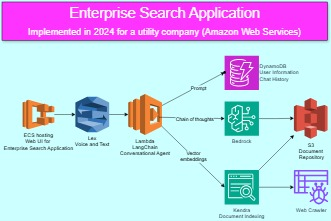
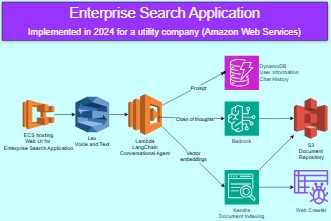
modified enterprise search project image

Changed region(s): [[0.0, 0.0, 0.997, 0.19]]

diff --git a/html/EnterpriseSearch.drawio.html b/html/EnterpriseSearch.drawio.html
@@ -5,7 +5,7 @@
 <title>EnterpriseSearch</title>
 <meta charset="utf-8"/>
 </head>
-<body><div class="mxgraph" style="max-width:100%;border:1px solid transparent;" data-mxgraph="{&quot;highlight&quot;:&quot;#0000ff&quot;,&quot;nav&quot;:true,&quot;resize&quot;:true,&quot;dark-mode&quot;:&quot;auto&quot;,&quot;toolbar&quot;:&quot;zoom layers tags lightbox&quot;,&quot;edit&quot;:&quot;_blank&quot;,&quot;xml&quot;:&quot;&lt;mxfile host=\&quot;app.diagrams.net\&quot; agent=\&quot;Mozilla/5.0 (Windows NT 10.0; Win64; x64) AppleWebKit/537.36 (KHTML, like Gecko) Chrome/134.0.0.0 Safari/537.36\&quot; version=\&quot;26.2.7\&quot;&gt;\n  &lt;diagram name=\&quot;Page-1\&quot; id=\&quot;_hdUKqcjvJ5aoQoFAANQ\&quot;&gt;\n    &lt;mxGraphModel dx=\&quot;1044\&quot; dy=\&quot;570\&quot; grid=\&quot;0\&quot; gridSize=\&quot;10\&quot; guides=\&quot;1\&quot; tooltips=\&quot;1\&quot; connect=\&quot;1\&quot; arrows=\&quot;1\&quot; fold=\&quot;1\&quot; page=\&quot;1\&quot; pageScale=\&quot;1\&quot; pageWidth=\&quot;850\&quot; pageHeight=\&quot;1100\&quot; background=\&quot;#CCFFFF\&quot; math=\&quot;0\&quot; shadow=\&quot;0\&quot;&gt;\n      &lt;root&gt;\n        &lt;mxCell id=\&quot;0\&quot; /&gt;\n        &lt;mxCell id=\&quot;1\&quot; parent=\&quot;0\&quot; /&gt;\n        &lt;mxCell id=\&quot;H_BaTxuCzZBpjUt7WrBj-1\&quot; value=\&quot;&amp;lt;div&amp;gt;&amp;lt;span style=&amp;quot;color: light-dark(rgb(255, 255, 255), rgb(18, 18, 18));&amp;quot;&amp;gt;Enterprise Search Application&amp;lt;/span&amp;gt;&amp;lt;/div&amp;gt;&amp;lt;div&amp;gt;&amp;lt;span style=&amp;quot;font-size: 21px; color: light-dark(rgb(255, 255, 255), rgb(18, 18, 18));&amp;quot;&amp;gt;Implemented in 2024 for a utility company (Amazon Web Services)&amp;lt;/span&amp;gt;&amp;lt;/div&amp;gt;\&quot; style=\&quot;rounded=0;whiteSpace=wrap;html=1;strokeWidth=1;fontSize=33;labelBackgroundColor=#FF33FF;fillColor=#FF33FF;fontColor=#FFFFFF;textShadow=0;shadow=1;labelBorderColor=none;\&quot; vertex=\&quot;1\&quot; parent=\&quot;1\&quot;&gt;\n          &lt;mxGeometry x=\&quot;54\&quot; y=\&quot;19\&quot; width=\&quot;740\&quot; height=\&quot;87\&quot; as=\&quot;geometry\&quot; /&gt;\n        &lt;/mxCell&gt;\n        &lt;mxCell id=\&quot;H_BaTxuCzZBpjUt7WrBj-9\&quot; value=\&quot;\&quot; style=\&quot;edgeStyle=orthogonalEdgeStyle;rounded=0;orthogonalLoop=1;jettySize=auto;html=1;\&quot; edge=\&quot;1\&quot; parent=\&quot;1\&quot; source=\&quot;H_BaTxuCzZBpjUt7WrBj-2\&quot; target=\&quot;H_BaTxuCzZBpjUt7WrBj-3\&quot;&gt;\n          &lt;mxGeometry relative=\&quot;1\&quot; as=\&quot;geometry\&quot; /&gt;\n        &lt;/mxCell&gt;\n        &lt;mxCell id=\&quot;H_BaTxuCzZBpjUt7WrBj-2\&quot; value=\&quot;ECS hosting&amp;lt;div&amp;gt;&amp;lt;span style=&amp;quot;background-color: transparent; color: light-dark(rgb(0, 0, 0), rgb(255, 255, 255));&amp;quot;&amp;gt;Web UI for&amp;amp;nbsp;&amp;lt;/span&amp;gt;&amp;lt;/div&amp;gt;&amp;lt;div&amp;gt;&amp;lt;span style=&amp;quot;background-color: transparent; color: light-dark(rgb(0, 0, 0), rgb(255, 255, 255));&amp;quot;&amp;gt;Enterprise Search Application&amp;lt;/span&amp;gt;&amp;lt;/div&amp;gt;\&quot; style=\&quot;outlineConnect=0;dashed=0;verticalLabelPosition=bottom;verticalAlign=top;align=center;html=1;shape=mxgraph.aws3.ecs;fillColor=#F58534;gradientColor=none;\&quot; vertex=\&quot;1\&quot; parent=\&quot;1\&quot;&gt;\n          &lt;mxGeometry x=\&quot;101\&quot; y=\&quot;241\&quot; width=\&quot;72\&quot; height=\&quot;67.5\&quot; as=\&quot;geometry\&quot; /&gt;\n        &lt;/mxCell&gt;\n        &lt;mxCell id=\&quot;H_BaTxuCzZBpjUt7WrBj-10\&quot; value=\&quot;\&quot; style=\&quot;edgeStyle=orthogonalEdgeStyle;rounded=0;orthogonalLoop=1;jettySize=auto;html=1;\&quot; edge=\&quot;1\&quot; parent=\&quot;1\&quot; source=\&quot;H_BaTxuCzZBpjUt7WrBj-3\&quot; target=\&quot;H_BaTxuCzZBpjUt7WrBj-4\&quot;&gt;\n          &lt;mxGeometry relative=\&quot;1\&quot; as=\&quot;geometry\&quot; /&gt;\n        &lt;/mxCell&gt;\n        &lt;mxCell id=\&quot;H_BaTxuCzZBpjUt7WrBj-3\&quot; value=\&quot;Lex&amp;lt;div&amp;gt;Voice and Text&amp;lt;/div&amp;gt;\&quot; style=\&quot;outlineConnect=0;dashed=0;verticalLabelPosition=bottom;verticalAlign=top;align=center;html=1;shape=mxgraph.aws3.lex;fillColor=#2E73B8;gradientColor=none;\&quot; vertex=\&quot;1\&quot; parent=\&quot;1\&quot;&gt;\n          &lt;mxGeometry x=\&quot;221\&quot; y=\&quot;234.25\&quot; width=\&quot;76.5\&quot; height=\&quot;81\&quot; as=\&quot;geometry\&quot; /&gt;\n        &lt;/mxCell&gt;\n        &lt;mxCell id=\&quot;H_BaTxuCzZBpjUt7WrBj-12\&quot; value=\&quot;\&quot; style=\&quot;rounded=0;orthogonalLoop=1;jettySize=auto;html=1;entryX=0.52;entryY=-0.32;entryDx=0;entryDy=0;entryPerimeter=0;\&quot; edge=\&quot;1\&quot; parent=\&quot;1\&quot; source=\&quot;H_BaTxuCzZBpjUt7WrBj-4\&quot; target=\&quot;H_BaTxuCzZBpjUt7WrBj-11\&quot;&gt;\n          &lt;mxGeometry relative=\&quot;1\&quot; as=\&quot;geometry\&quot; /&gt;\n        &lt;/mxCell&gt;\n        &lt;mxCell id=\&quot;H_BaTxuCzZBpjUt7WrBj-21\&quot; value=\&quot;Prompt\&quot; style=\&quot;edgeLabel;html=1;align=center;verticalAlign=middle;resizable=0;points=[];labelBackgroundColor=#CCFFFF;\&quot; vertex=\&quot;1\&quot; connectable=\&quot;0\&quot; parent=\&quot;H_BaTxuCzZBpjUt7WrBj-12\&quot;&gt;\n          &lt;mxGeometry x=\&quot;0.1459\&quot; y=\&quot;-3\&quot; relative=\&quot;1\&quot; as=\&quot;geometry\&quot;&gt;\n            &lt;mxPoint as=\&quot;offset\&quot; /&gt;\n          &lt;/mxGeometry&gt;\n        &lt;/mxCell&gt;\n        &lt;mxCell id=\&quot;H_BaTxuCzZBpjUt7WrBj-4\&quot; value=\&quot;Lambda&amp;lt;div&amp;gt;LangChain&amp;lt;/div&amp;gt;&amp;lt;div&amp;gt;Conversational Agent&amp;lt;/div&amp;gt;\&quot; style=\&quot;outlineConnect=0;dashed=0;verticalLabelPosition=bottom;verticalAlign=top;align=center;html=1;shape=mxgraph.aws3.lambda;fillColor=#F58534;gradientColor=none;\&quot; vertex=\&quot;1\&quot; parent=\&quot;1\&quot;&gt;\n          &lt;mxGeometry x=\&quot;341\&quot; y=\&quot;228.25\&quot; width=\&quot;76.5\&quot; height=\&quot;93\&quot; as=\&quot;geometry\&quot; /&gt;\n        &lt;/mxCell&gt;\n        &lt;mxCell id=\&quot;H_BaTxuCzZBpjUt7WrBj-16\&quot; value=\&quot;\&quot; style=\&quot;edgeStyle=orthogonalEdgeStyle;rounded=0;orthogonalLoop=1;jettySize=auto;html=1;\&quot; edge=\&quot;1\&quot; parent=\&quot;1\&quot; source=\&quot;H_BaTxuCzZBpjUt7WrBj-5\&quot; target=\&quot;H_BaTxuCzZBpjUt7WrBj-8\&quot;&gt;\n          &lt;mxGeometry relative=\&quot;1\&quot; as=\&quot;geometry\&quot; /&gt;\n        &lt;/mxCell&gt;\n        &lt;mxCell id=\&quot;H_BaTxuCzZBpjUt7WrBj-5\&quot; value=\&quot;Bedrock\&quot; style=\&quot;sketch=0;points=[[0,0,0],[0.25,0,0],[0.5,0,0],[0.75,0,0],[1,0,0],[0,1,0],[0.25,1,0],[0.5,1,0],[0.75,1,0],[1,1,0],[0,0.25,0],[0,0.5,0],[0,0.75,0],[1,0.25,0],[1,0.5,0],[1,0.75,0]];outlineConnect=0;fontColor=#232F3E;fillColor=#01A88D;strokeColor=#ffffff;dashed=0;verticalLabelPosition=bottom;verticalAlign=top;align=center;html=1;fontSize=12;fontStyle=0;aspect=fixed;shape=mxgraph.aws4.resourceIcon;resIcon=mxgraph.aws4.bedrock;\&quot; vertex=\&quot;1\&quot; parent=\&quot;1\&quot;&gt;\n          &lt;mxGeometry x=\&quot;560\&quot; y=\&quot;245\&quot; width=\&quot;78\&quot; height=\&quot;78\&quot; as=\&quot;geometry\&quot; /&gt;\n        &lt;/mxCell&gt;\n        &lt;mxCell id=\&quot;H_BaTxuCzZBpjUt7WrBj-6\&quot; value=\&quot;DynamoDB&amp;lt;div&amp;gt;User Information&amp;lt;/div&amp;gt;&amp;lt;div&amp;gt;Chat History&amp;lt;/div&amp;gt;\&quot; style=\&quot;sketch=0;points=[[0,0,0],[0.25,0,0],[0.5,0,0],[0.75,0,0],[1,0,0],[0,1,0],[0.25,1,0],[0.5,1,0],[0.75,1,0],[1,1,0],[0,0.25,0],[0,0.5,0],[0,0.75,0],[1,0.25,0],[1,0.5,0],[1,0.75,0]];outlineConnect=0;fontColor=#232F3E;fillColor=#C925D1;strokeColor=#ffffff;dashed=0;verticalLabelPosition=middle;verticalAlign=middle;align=left;html=1;fontSize=12;fontStyle=0;aspect=fixed;shape=mxgraph.aws4.resourceIcon;resIcon=mxgraph.aws4.dynamodb;labelPosition=right;\&quot; vertex=\&quot;1\&quot; parent=\&quot;1\&quot;&gt;\n          &lt;mxGeometry x=\&quot;560\&quot; y=\&quot;141\&quot; width=\&quot;78\&quot; height=\&quot;78\&quot; as=\&quot;geometry\&quot; /&gt;\n        &lt;/mxCell&gt;\n        &lt;mxCell id=\&quot;H_BaTxuCzZBpjUt7WrBj-19\&quot; value=\&quot;\&quot; style=\&quot;edgeStyle=orthogonalEdgeStyle;rounded=0;orthogonalLoop=1;jettySize=auto;html=1;\&quot; edge=\&quot;1\&quot; parent=\&quot;1\&quot; source=\&quot;H_BaTxuCzZBpjUt7WrBj-7\&quot; target=\&quot;H_BaTxuCzZBpjUt7WrBj-18\&quot;&gt;\n          &lt;mxGeometry relative=\&quot;1\&quot; as=\&quot;geometry\&quot; /&gt;\n        &lt;/mxCell&gt;\n        &lt;mxCell id=\&quot;H_BaTxuCzZBpjUt7WrBj-7\&quot; value=\&quot;Kendra&amp;lt;div&amp;gt;Document Indexing&amp;lt;/div&amp;gt;\&quot; style=\&quot;sketch=0;points=[[0,0,0],[0.25,0,0],[0.5,0,0],[0.75,0,0],[1,0,0],[0,1,0],[0.25,1,0],[0.5,1,0],[0.75,1,0],[1,1,0],[0,0.25,0],[0,0.5,0],[0,0.75,0],[1,0.25,0],[1,0.5,0],[1,0.75,0]];outlineConnect=0;fontColor=#232F3E;fillColor=#01A88D;strokeColor=#ffffff;dashed=0;verticalLabelPosition=bottom;verticalAlign=top;align=center;html=1;fontSize=12;fontStyle=0;aspect=fixed;shape=mxgraph.aws4.resourceIcon;resIcon=mxgraph.aws4.kendra;\&quot; vertex=\&quot;1\&quot; parent=\&quot;1\&quot;&gt;\n          &lt;mxGeometry x=\&quot;560\&quot; y=\&quot;401\&quot; width=\&quot;78\&quot; height=\&quot;78\&quot; as=\&quot;geometry\&quot; /&gt;\n        &lt;/mxCell&gt;\n        &lt;mxCell id=\&quot;H_BaTxuCzZBpjUt7WrBj-8\&quot; value=\&quot;S3&amp;lt;div&amp;gt;Document&amp;lt;/div&amp;gt;&amp;lt;div&amp;gt;&amp;amp;nbsp;Repository&amp;lt;/div&amp;gt;\&quot; style=\&quot;outlineConnect=0;dashed=0;verticalLabelPosition=bottom;verticalAlign=top;align=center;html=1;shape=mxgraph.aws3.s3;fillColor=#E05243;gradientColor=none;labelPosition=center;\&quot; vertex=\&quot;1\&quot; parent=\&quot;1\&quot;&gt;\n          &lt;mxGeometry x=\&quot;717.5\&quot; y=\&quot;237\&quot; width=\&quot;76.5\&quot; height=\&quot;93\&quot; as=\&quot;geometry\&quot; /&gt;\n        &lt;/mxCell&gt;\n        &lt;mxCell id=\&quot;H_BaTxuCzZBpjUt7WrBj-11\&quot; value=\&quot;\&quot; style=\&quot;shape=waypoint;sketch=0;size=6;pointerEvents=1;points=[];fillColor=#F58534;resizable=0;rotatable=0;perimeter=centerPerimeter;snapToPoint=1;verticalAlign=top;dashed=0;gradientColor=none;\&quot; vertex=\&quot;1\&quot; parent=\&quot;1\&quot;&gt;\n          &lt;mxGeometry x=\&quot;550\&quot; y=\&quot;169\&quot; width=\&quot;20\&quot; height=\&quot;20\&quot; as=\&quot;geometry\&quot; /&gt;\n        &lt;/mxCell&gt;\n        &lt;mxCell id=\&quot;H_BaTxuCzZBpjUt7WrBj-14\&quot; value=\&quot;\&quot; style=\&quot;rounded=0;orthogonalLoop=1;jettySize=auto;html=1;entryX=0;entryY=0.5;entryDx=0;entryDy=0;entryPerimeter=0;exitX=0.915;exitY=0.567;exitDx=0;exitDy=0;exitPerimeter=0;\&quot; edge=\&quot;1\&quot; parent=\&quot;1\&quot; source=\&quot;H_BaTxuCzZBpjUt7WrBj-4\&quot; target=\&quot;H_BaTxuCzZBpjUt7WrBj-5\&quot;&gt;\n          &lt;mxGeometry relative=\&quot;1\&quot; as=\&quot;geometry\&quot;&gt;\n            &lt;mxPoint x=\&quot;427\&quot; y=\&quot;240\&quot; as=\&quot;sourcePoint\&quot; /&gt;\n            &lt;mxPoint x=\&quot;570\&quot; y=\&quot;189\&quot; as=\&quot;targetPoint\&quot; /&gt;\n          &lt;/mxGeometry&gt;\n        &lt;/mxCell&gt;\n        &lt;mxCell id=\&quot;H_BaTxuCzZBpjUt7WrBj-20\&quot; value=\&quot;Chain of thoughts\&quot; style=\&quot;edgeLabel;html=1;align=center;verticalAlign=middle;resizable=0;points=[];labelBackgroundColor=#CCFFFF;\&quot; vertex=\&quot;1\&quot; connectable=\&quot;0\&quot; parent=\&quot;H_BaTxuCzZBpjUt7WrBj-14\&quot;&gt;\n          &lt;mxGeometry x=\&quot;0.0932\&quot; y=\&quot;-2\&quot; relative=\&quot;1\&quot; as=\&quot;geometry\&quot;&gt;\n            &lt;mxPoint as=\&quot;offset\&quot; /&gt;\n          &lt;/mxGeometry&gt;\n        &lt;/mxCell&gt;\n        &lt;mxCell id=\&quot;H_BaTxuCzZBpjUt7WrBj-15\&quot; value=\&quot;Vector&amp;lt;div&amp;gt;embeddings&amp;lt;/div&amp;gt;\&quot; style=\&quot;rounded=0;orthogonalLoop=1;jettySize=auto;entryX=0;entryY=0.5;entryDx=0;entryDy=0;entryPerimeter=0;exitX=1;exitY=0.79;exitDx=0;exitDy=0;exitPerimeter=0;labelBackgroundColor=#CCFFFF;textDirection=ltr;labelPosition=center;verticalLabelPosition=middle;align=center;verticalAlign=middle;horizontal=1;html=1;textShadow=0;\&quot; edge=\&quot;1\&quot; parent=\&quot;1\&quot; source=\&quot;H_BaTxuCzZBpjUt7WrBj-4\&quot; target=\&quot;H_BaTxuCzZBpjUt7WrBj-7\&quot;&gt;\n          &lt;mxGeometry relative=\&quot;1\&quot; as=\&quot;geometry\&quot;&gt;\n            &lt;mxPoint x=\&quot;420\&quot; y=\&quot;270\&quot; as=\&quot;sourcePoint\&quot; /&gt;\n            &lt;mxPoint x=\&quot;580\&quot; y=\&quot;199\&quot; as=\&quot;targetPoint\&quot; /&gt;\n          &lt;/mxGeometry&gt;\n        &lt;/mxCell&gt;\n        &lt;mxCell id=\&quot;H_BaTxuCzZBpjUt7WrBj-17\&quot; value=\&quot;\&quot; style=\&quot;rounded=0;orthogonalLoop=1;jettySize=auto;html=1;\&quot; edge=\&quot;1\&quot; parent=\&quot;1\&quot; source=\&quot;H_BaTxuCzZBpjUt7WrBj-7\&quot; target=\&quot;H_BaTxuCzZBpjUt7WrBj-8\&quot;&gt;\n          &lt;mxGeometry relative=\&quot;1\&quot; as=\&quot;geometry\&quot;&gt;\n            &lt;mxPoint x=\&quot;640\&quot; y=\&quot;400\&quot; as=\&quot;sourcePoint\&quot; /&gt;\n            &lt;mxPoint x=\&quot;728\&quot; y=\&quot;294\&quot; as=\&quot;targetPoint\&quot; /&gt;\n          &lt;/mxGeometry&gt;\n        &lt;/mxCell&gt;\n        &lt;mxCell id=\&quot;H_BaTxuCzZBpjUt7WrBj-18\&quot; value=\&quot;Web Crawler\&quot; style=\&quot;sketch=0;outlineConnect=0;fontColor=#232F3E;gradientColor=none;fillColor=#8C4FFF;strokeColor=none;dashed=0;verticalLabelPosition=bottom;verticalAlign=top;align=center;html=1;fontSize=12;fontStyle=0;aspect=fixed;pointerEvents=1;shape=mxgraph.aws4.glue_crawlers;\&quot; vertex=\&quot;1\&quot; parent=\&quot;1\&quot;&gt;\n          &lt;mxGeometry x=\&quot;717.5\&quot; y=\&quot;401\&quot; width=\&quot;78\&quot; height=\&quot;78\&quot; as=\&quot;geometry\&quot; /&gt;\n        &lt;/mxCell&gt;\n      &lt;/root&gt;\n    &lt;/mxGraphModel&gt;\n  &lt;/diagram&gt;\n&lt;/mxfile&gt;\n&quot;}"></div>
+<body><div class="mxgraph" style="max-width:100%;border:1px solid transparent;" data-mxgraph="{&quot;highlight&quot;:&quot;#0000ff&quot;,&quot;nav&quot;:true,&quot;resize&quot;:true,&quot;dark-mode&quot;:&quot;auto&quot;,&quot;toolbar&quot;:&quot;zoom layers tags lightbox&quot;,&quot;edit&quot;:&quot;_blank&quot;,&quot;xml&quot;:&quot;&lt;mxfile host=\&quot;app.diagrams.net\&quot; agent=\&quot;Mozilla/5.0 (Windows NT 10.0; Win64; x64) AppleWebKit/537.36 (KHTML, like Gecko) Chrome/134.0.0.0 Safari/537.36\&quot; version=\&quot;26.2.8\&quot;&gt;\n  &lt;diagram name=\&quot;Page-1\&quot; id=\&quot;_hdUKqcjvJ5aoQoFAANQ\&quot;&gt;\n    &lt;mxGraphModel dx=\&quot;1044\&quot; dy=\&quot;570\&quot; grid=\&quot;0\&quot; gridSize=\&quot;10\&quot; guides=\&quot;1\&quot; tooltips=\&quot;1\&quot; connect=\&quot;1\&quot; arrows=\&quot;1\&quot; fold=\&quot;1\&quot; page=\&quot;1\&quot; pageScale=\&quot;1\&quot; pageWidth=\&quot;850\&quot; pageHeight=\&quot;1100\&quot; background=\&quot;#CCFFFF\&quot; math=\&quot;0\&quot; shadow=\&quot;0\&quot;&gt;\n      &lt;root&gt;\n        &lt;mxCell id=\&quot;0\&quot; /&gt;\n        &lt;mxCell id=\&quot;1\&quot; parent=\&quot;0\&quot; /&gt;\n        &lt;mxCell id=\&quot;H_BaTxuCzZBpjUt7WrBj-1\&quot; value=\&quot;&amp;lt;div&amp;gt;&amp;lt;span style=&amp;quot;color: light-dark(rgb(255, 255, 255), rgb(18, 18, 18));&amp;quot;&amp;gt;Enterprise Search Application&amp;lt;/span&amp;gt;&amp;lt;/div&amp;gt;&amp;lt;div&amp;gt;&amp;lt;span style=&amp;quot;font-size: 21px; color: light-dark(rgb(255, 255, 255), rgb(18, 18, 18));&amp;quot;&amp;gt;Implemented in 2024 for a utility company (Amazon Web Services)&amp;lt;/span&amp;gt;&amp;lt;/div&amp;gt;\&quot; style=\&quot;rounded=0;whiteSpace=wrap;html=1;strokeWidth=1;fontSize=33;labelBackgroundColor=#9933FF;fillColor=#9933FF;fontColor=#FFFFFF;textShadow=0;shadow=1;labelBorderColor=none;\&quot; parent=\&quot;1\&quot; vertex=\&quot;1\&quot;&gt;\n          &lt;mxGeometry x=\&quot;54\&quot; y=\&quot;19\&quot; width=\&quot;740\&quot; height=\&quot;87\&quot; as=\&quot;geometry\&quot; /&gt;\n        &lt;/mxCell&gt;\n        &lt;mxCell id=\&quot;H_BaTxuCzZBpjUt7WrBj-9\&quot; value=\&quot;\&quot; style=\&quot;edgeStyle=orthogonalEdgeStyle;rounded=0;orthogonalLoop=1;jettySize=auto;html=1;\&quot; parent=\&quot;1\&quot; source=\&quot;H_BaTxuCzZBpjUt7WrBj-2\&quot; target=\&quot;H_BaTxuCzZBpjUt7WrBj-3\&quot; edge=\&quot;1\&quot;&gt;\n          &lt;mxGeometry relative=\&quot;1\&quot; as=\&quot;geometry\&quot; /&gt;\n        &lt;/mxCell&gt;\n        &lt;mxCell id=\&quot;H_BaTxuCzZBpjUt7WrBj-2\&quot; value=\&quot;ECS hosting&amp;lt;div&amp;gt;&amp;lt;span style=&amp;quot;background-color: transparent; color: light-dark(rgb(0, 0, 0), rgb(255, 255, 255));&amp;quot;&amp;gt;Web UI for&amp;amp;nbsp;&amp;lt;/span&amp;gt;&amp;lt;/div&amp;gt;&amp;lt;div&amp;gt;&amp;lt;span style=&amp;quot;background-color: transparent; color: light-dark(rgb(0, 0, 0), rgb(255, 255, 255));&amp;quot;&amp;gt;Enterprise Search Application&amp;lt;/span&amp;gt;&amp;lt;/div&amp;gt;\&quot; style=\&quot;outlineConnect=0;dashed=0;verticalLabelPosition=bottom;verticalAlign=top;align=center;html=1;shape=mxgraph.aws3.ecs;fillColor=#F58534;gradientColor=none;\&quot; parent=\&quot;1\&quot; vertex=\&quot;1\&quot;&gt;\n          &lt;mxGeometry x=\&quot;101\&quot; y=\&quot;241\&quot; width=\&quot;72\&quot; height=\&quot;67.5\&quot; as=\&quot;geometry\&quot; /&gt;\n        &lt;/mxCell&gt;\n        &lt;mxCell id=\&quot;H_BaTxuCzZBpjUt7WrBj-10\&quot; value=\&quot;\&quot; style=\&quot;edgeStyle=orthogonalEdgeStyle;rounded=0;orthogonalLoop=1;jettySize=auto;html=1;\&quot; parent=\&quot;1\&quot; source=\&quot;H_BaTxuCzZBpjUt7WrBj-3\&quot; target=\&quot;H_BaTxuCzZBpjUt7WrBj-4\&quot; edge=\&quot;1\&quot;&gt;\n          &lt;mxGeometry relative=\&quot;1\&quot; as=\&quot;geometry\&quot; /&gt;\n        &lt;/mxCell&gt;\n        &lt;mxCell id=\&quot;H_BaTxuCzZBpjUt7WrBj-3\&quot; value=\&quot;Lex&amp;lt;div&amp;gt;Voice and Text&amp;lt;/div&amp;gt;\&quot; style=\&quot;outlineConnect=0;dashed=0;verticalLabelPosition=bottom;verticalAlign=top;align=center;html=1;shape=mxgraph.aws3.lex;fillColor=#2E73B8;gradientColor=none;\&quot; parent=\&quot;1\&quot; vertex=\&quot;1\&quot;&gt;\n          &lt;mxGeometry x=\&quot;221\&quot; y=\&quot;234.25\&quot; width=\&quot;76.5\&quot; height=\&quot;81\&quot; as=\&quot;geometry\&quot; /&gt;\n        &lt;/mxCell&gt;\n        &lt;mxCell id=\&quot;H_BaTxuCzZBpjUt7WrBj-12\&quot; value=\&quot;\&quot; style=\&quot;rounded=0;orthogonalLoop=1;jettySize=auto;html=1;entryX=0.52;entryY=-0.32;entryDx=0;entryDy=0;entryPerimeter=0;\&quot; parent=\&quot;1\&quot; source=\&quot;H_BaTxuCzZBpjUt7WrBj-4\&quot; target=\&quot;H_BaTxuCzZBpjUt7WrBj-11\&quot; edge=\&quot;1\&quot;&gt;\n          &lt;mxGeometry relative=\&quot;1\&quot; as=\&quot;geometry\&quot; /&gt;\n        &lt;/mxCell&gt;\n        &lt;mxCell id=\&quot;H_BaTxuCzZBpjUt7WrBj-21\&quot; value=\&quot;Prompt\&quot; style=\&quot;edgeLabel;html=1;align=center;verticalAlign=middle;resizable=0;points=[];labelBackgroundColor=#CCFFFF;\&quot; parent=\&quot;H_BaTxuCzZBpjUt7WrBj-12\&quot; vertex=\&quot;1\&quot; connectable=\&quot;0\&quot;&gt;\n          &lt;mxGeometry x=\&quot;0.1459\&quot; y=\&quot;-3\&quot; relative=\&quot;1\&quot; as=\&quot;geometry\&quot;&gt;\n            &lt;mxPoint as=\&quot;offset\&quot; /&gt;\n          &lt;/mxGeometry&gt;\n        &lt;/mxCell&gt;\n        &lt;mxCell id=\&quot;H_BaTxuCzZBpjUt7WrBj-4\&quot; value=\&quot;Lambda&amp;lt;div&amp;gt;LangChain&amp;lt;/div&amp;gt;&amp;lt;div&amp;gt;Conversational Agent&amp;lt;/div&amp;gt;\&quot; style=\&quot;outlineConnect=0;dashed=0;verticalLabelPosition=bottom;verticalAlign=top;align=center;html=1;shape=mxgraph.aws3.lambda;fillColor=#F58534;gradientColor=none;\&quot; parent=\&quot;1\&quot; vertex=\&quot;1\&quot;&gt;\n          &lt;mxGeometry x=\&quot;341\&quot; y=\&quot;228.25\&quot; width=\&quot;76.5\&quot; height=\&quot;93\&quot; as=\&quot;geometry\&quot; /&gt;\n        &lt;/mxCell&gt;\n        &lt;mxCell id=\&quot;H_BaTxuCzZBpjUt7WrBj-16\&quot; value=\&quot;\&quot; style=\&quot;edgeStyle=orthogonalEdgeStyle;rounded=0;orthogonalLoop=1;jettySize=auto;html=1;\&quot; parent=\&quot;1\&quot; source=\&quot;H_BaTxuCzZBpjUt7WrBj-5\&quot; target=\&quot;H_BaTxuCzZBpjUt7WrBj-8\&quot; edge=\&quot;1\&quot;&gt;\n          &lt;mxGeometry relative=\&quot;1\&quot; as=\&quot;geometry\&quot; /&gt;\n        &lt;/mxCell&gt;\n        &lt;mxCell id=\&quot;H_BaTxuCzZBpjUt7WrBj-5\&quot; value=\&quot;Bedrock\&quot; style=\&quot;sketch=0;points=[[0,0,0],[0.25,0,0],[0.5,0,0],[0.75,0,0],[1,0,0],[0,1,0],[0.25,1,0],[0.5,1,0],[0.75,1,0],[1,1,0],[0,0.25,0],[0,0.5,0],[0,0.75,0],[1,0.25,0],[1,0.5,0],[1,0.75,0]];outlineConnect=0;fontColor=#232F3E;fillColor=#01A88D;strokeColor=#ffffff;dashed=0;verticalLabelPosition=bottom;verticalAlign=top;align=center;html=1;fontSize=12;fontStyle=0;aspect=fixed;shape=mxgraph.aws4.resourceIcon;resIcon=mxgraph.aws4.bedrock;\&quot; parent=\&quot;1\&quot; vertex=\&quot;1\&quot;&gt;\n          &lt;mxGeometry x=\&quot;560\&quot; y=\&quot;245\&quot; width=\&quot;78\&quot; height=\&quot;78\&quot; as=\&quot;geometry\&quot; /&gt;\n        &lt;/mxCell&gt;\n        &lt;mxCell id=\&quot;H_BaTxuCzZBpjUt7WrBj-6\&quot; value=\&quot;DynamoDB&amp;lt;div&amp;gt;User Information&amp;lt;/div&amp;gt;&amp;lt;div&amp;gt;Chat History&amp;lt;/div&amp;gt;\&quot; style=\&quot;sketch=0;points=[[0,0,0],[0.25,0,0],[0.5,0,0],[0.75,0,0],[1,0,0],[0,1,0],[0.25,1,0],[0.5,1,0],[0.75,1,0],[1,1,0],[0,0.25,0],[0,0.5,0],[0,0.75,0],[1,0.25,0],[1,0.5,0],[1,0.75,0]];outlineConnect=0;fontColor=#232F3E;fillColor=#C925D1;strokeColor=#ffffff;dashed=0;verticalLabelPosition=middle;verticalAlign=middle;align=left;html=1;fontSize=12;fontStyle=0;aspect=fixed;shape=mxgraph.aws4.resourceIcon;resIcon=mxgraph.aws4.dynamodb;labelPosition=right;\&quot; parent=\&quot;1\&quot; vertex=\&quot;1\&quot;&gt;\n          &lt;mxGeometry x=\&quot;560\&quot; y=\&quot;141\&quot; width=\&quot;78\&quot; height=\&quot;78\&quot; as=\&quot;geometry\&quot; /&gt;\n        &lt;/mxCell&gt;\n        &lt;mxCell id=\&quot;H_BaTxuCzZBpjUt7WrBj-19\&quot; value=\&quot;\&quot; style=\&quot;edgeStyle=orthogonalEdgeStyle;rounded=0;orthogonalLoop=1;jettySize=auto;html=1;\&quot; parent=\&quot;1\&quot; source=\&quot;H_BaTxuCzZBpjUt7WrBj-7\&quot; target=\&quot;H_BaTxuCzZBpjUt7WrBj-18\&quot; edge=\&quot;1\&quot;&gt;\n          &lt;mxGeometry relative=\&quot;1\&quot; as=\&quot;geometry\&quot; /&gt;\n        &lt;/mxCell&gt;\n        &lt;mxCell id=\&quot;H_BaTxuCzZBpjUt7WrBj-7\&quot; value=\&quot;Kendra&amp;lt;div&amp;gt;Document Indexing&amp;lt;/div&amp;gt;\&quot; style=\&quot;sketch=0;points=[[0,0,0],[0.25,0,0],[0.5,0,0],[0.75,0,0],[1,0,0],[0,1,0],[0.25,1,0],[0.5,1,0],[0.75,1,0],[1,1,0],[0,0.25,0],[0,0.5,0],[0,0.75,0],[1,0.25,0],[1,0.5,0],[1,0.75,0]];outlineConnect=0;fontColor=#232F3E;fillColor=#01A88D;strokeColor=#ffffff;dashed=0;verticalLabelPosition=bottom;verticalAlign=top;align=center;html=1;fontSize=12;fontStyle=0;aspect=fixed;shape=mxgraph.aws4.resourceIcon;resIcon=mxgraph.aws4.kendra;\&quot; parent=\&quot;1\&quot; vertex=\&quot;1\&quot;&gt;\n          &lt;mxGeometry x=\&quot;560\&quot; y=\&quot;401\&quot; width=\&quot;78\&quot; height=\&quot;78\&quot; as=\&quot;geometry\&quot; /&gt;\n        &lt;/mxCell&gt;\n        &lt;mxCell id=\&quot;H_BaTxuCzZBpjUt7WrBj-8\&quot; value=\&quot;S3&amp;lt;div&amp;gt;Document&amp;lt;/div&amp;gt;&amp;lt;div&amp;gt;&amp;amp;nbsp;Repository&amp;lt;/div&amp;gt;\&quot; style=\&quot;outlineConnect=0;dashed=0;verticalLabelPosition=bottom;verticalAlign=top;align=center;html=1;shape=mxgraph.aws3.s3;fillColor=#E05243;gradientColor=none;labelPosition=center;\&quot; parent=\&quot;1\&quot; vertex=\&quot;1\&quot;&gt;\n          &lt;mxGeometry x=\&quot;717.5\&quot; y=\&quot;237\&quot; width=\&quot;76.5\&quot; height=\&quot;93\&quot; as=\&quot;geometry\&quot; /&gt;\n        &lt;/mxCell&gt;\n        &lt;mxCell id=\&quot;H_BaTxuCzZBpjUt7WrBj-11\&quot; value=\&quot;\&quot; style=\&quot;shape=waypoint;sketch=0;size=6;pointerEvents=1;points=[];fillColor=#F58534;resizable=0;rotatable=0;perimeter=centerPerimeter;snapToPoint=1;verticalAlign=top;dashed=0;gradientColor=none;\&quot; parent=\&quot;1\&quot; vertex=\&quot;1\&quot;&gt;\n          &lt;mxGeometry x=\&quot;550\&quot; y=\&quot;169\&quot; width=\&quot;20\&quot; height=\&quot;20\&quot; as=\&quot;geometry\&quot; /&gt;\n        &lt;/mxCell&gt;\n        &lt;mxCell id=\&quot;H_BaTxuCzZBpjUt7WrBj-14\&quot; value=\&quot;\&quot; style=\&quot;rounded=0;orthogonalLoop=1;jettySize=auto;html=1;entryX=0;entryY=0.5;entryDx=0;entryDy=0;entryPerimeter=0;exitX=0.915;exitY=0.567;exitDx=0;exitDy=0;exitPerimeter=0;\&quot; parent=\&quot;1\&quot; source=\&quot;H_BaTxuCzZBpjUt7WrBj-4\&quot; target=\&quot;H_BaTxuCzZBpjUt7WrBj-5\&quot; edge=\&quot;1\&quot;&gt;\n          &lt;mxGeometry relative=\&quot;1\&quot; as=\&quot;geometry\&quot;&gt;\n            &lt;mxPoint x=\&quot;427\&quot; y=\&quot;240\&quot; as=\&quot;sourcePoint\&quot; /&gt;\n            &lt;mxPoint x=\&quot;570\&quot; y=\&quot;189\&quot; as=\&quot;targetPoint\&quot; /&gt;\n          &lt;/mxGeometry&gt;\n        &lt;/mxCell&gt;\n        &lt;mxCell id=\&quot;H_BaTxuCzZBpjUt7WrBj-20\&quot; value=\&quot;Chain of thoughts\&quot; style=\&quot;edgeLabel;html=1;align=center;verticalAlign=middle;resizable=0;points=[];labelBackgroundColor=#CCFFFF;\&quot; parent=\&quot;H_BaTxuCzZBpjUt7WrBj-14\&quot; vertex=\&quot;1\&quot; connectable=\&quot;0\&quot;&gt;\n          &lt;mxGeometry x=\&quot;0.0932\&quot; y=\&quot;-2\&quot; relative=\&quot;1\&quot; as=\&quot;geometry\&quot;&gt;\n            &lt;mxPoint as=\&quot;offset\&quot; /&gt;\n          &lt;/mxGeometry&gt;\n        &lt;/mxCell&gt;\n        &lt;mxCell id=\&quot;H_BaTxuCzZBpjUt7WrBj-15\&quot; value=\&quot;Vector&amp;lt;div&amp;gt;embeddings&amp;lt;/div&amp;gt;\&quot; style=\&quot;rounded=0;orthogonalLoop=1;jettySize=auto;entryX=0;entryY=0.5;entryDx=0;entryDy=0;entryPerimeter=0;exitX=1;exitY=0.79;exitDx=0;exitDy=0;exitPerimeter=0;labelBackgroundColor=#CCFFFF;textDirection=ltr;labelPosition=center;verticalLabelPosition=middle;align=center;verticalAlign=middle;horizontal=1;html=1;textShadow=0;\&quot; parent=\&quot;1\&quot; source=\&quot;H_BaTxuCzZBpjUt7WrBj-4\&quot; target=\&quot;H_BaTxuCzZBpjUt7WrBj-7\&quot; edge=\&quot;1\&quot;&gt;\n          &lt;mxGeometry relative=\&quot;1\&quot; as=\&quot;geometry\&quot;&gt;\n            &lt;mxPoint x=\&quot;420\&quot; y=\&quot;270\&quot; as=\&quot;sourcePoint\&quot; /&gt;\n            &lt;mxPoint x=\&quot;580\&quot; y=\&quot;199\&quot; as=\&quot;targetPoint\&quot; /&gt;\n          &lt;/mxGeometry&gt;\n        &lt;/mxCell&gt;\n        &lt;mxCell id=\&quot;H_BaTxuCzZBpjUt7WrBj-17\&quot; value=\&quot;\&quot; style=\&quot;rounded=0;orthogonalLoop=1;jettySize=auto;html=1;\&quot; parent=\&quot;1\&quot; source=\&quot;H_BaTxuCzZBpjUt7WrBj-7\&quot; target=\&quot;H_BaTxuCzZBpjUt7WrBj-8\&quot; edge=\&quot;1\&quot;&gt;\n          &lt;mxGeometry relative=\&quot;1\&quot; as=\&quot;geometry\&quot;&gt;\n            &lt;mxPoint x=\&quot;640\&quot; y=\&quot;400\&quot; as=\&quot;sourcePoint\&quot; /&gt;\n            &lt;mxPoint x=\&quot;728\&quot; y=\&quot;294\&quot; as=\&quot;targetPoint\&quot; /&gt;\n          &lt;/mxGeometry&gt;\n        &lt;/mxCell&gt;\n        &lt;mxCell id=\&quot;H_BaTxuCzZBpjUt7WrBj-18\&quot; value=\&quot;Web Crawler\&quot; style=\&quot;sketch=0;outlineConnect=0;fontColor=#232F3E;gradientColor=none;fillColor=#8C4FFF;strokeColor=none;dashed=0;verticalLabelPosition=bottom;verticalAlign=top;align=center;html=1;fontSize=12;fontStyle=0;aspect=fixed;pointerEvents=1;shape=mxgraph.aws4.glue_crawlers;\&quot; parent=\&quot;1\&quot; vertex=\&quot;1\&quot;&gt;\n          &lt;mxGeometry x=\&quot;717.5\&quot; y=\&quot;401\&quot; width=\&quot;78\&quot; height=\&quot;78\&quot; as=\&quot;geometry\&quot; /&gt;\n        &lt;/mxCell&gt;\n      &lt;/root&gt;\n    &lt;/mxGraphModel&gt;\n  &lt;/diagram&gt;\n&lt;/mxfile&gt;\n&quot;}"></div>
 <script type="text/javascript" src="https://viewer.diagrams.net/js/viewer-static.min.js"></script>
 </body>
 </html>
